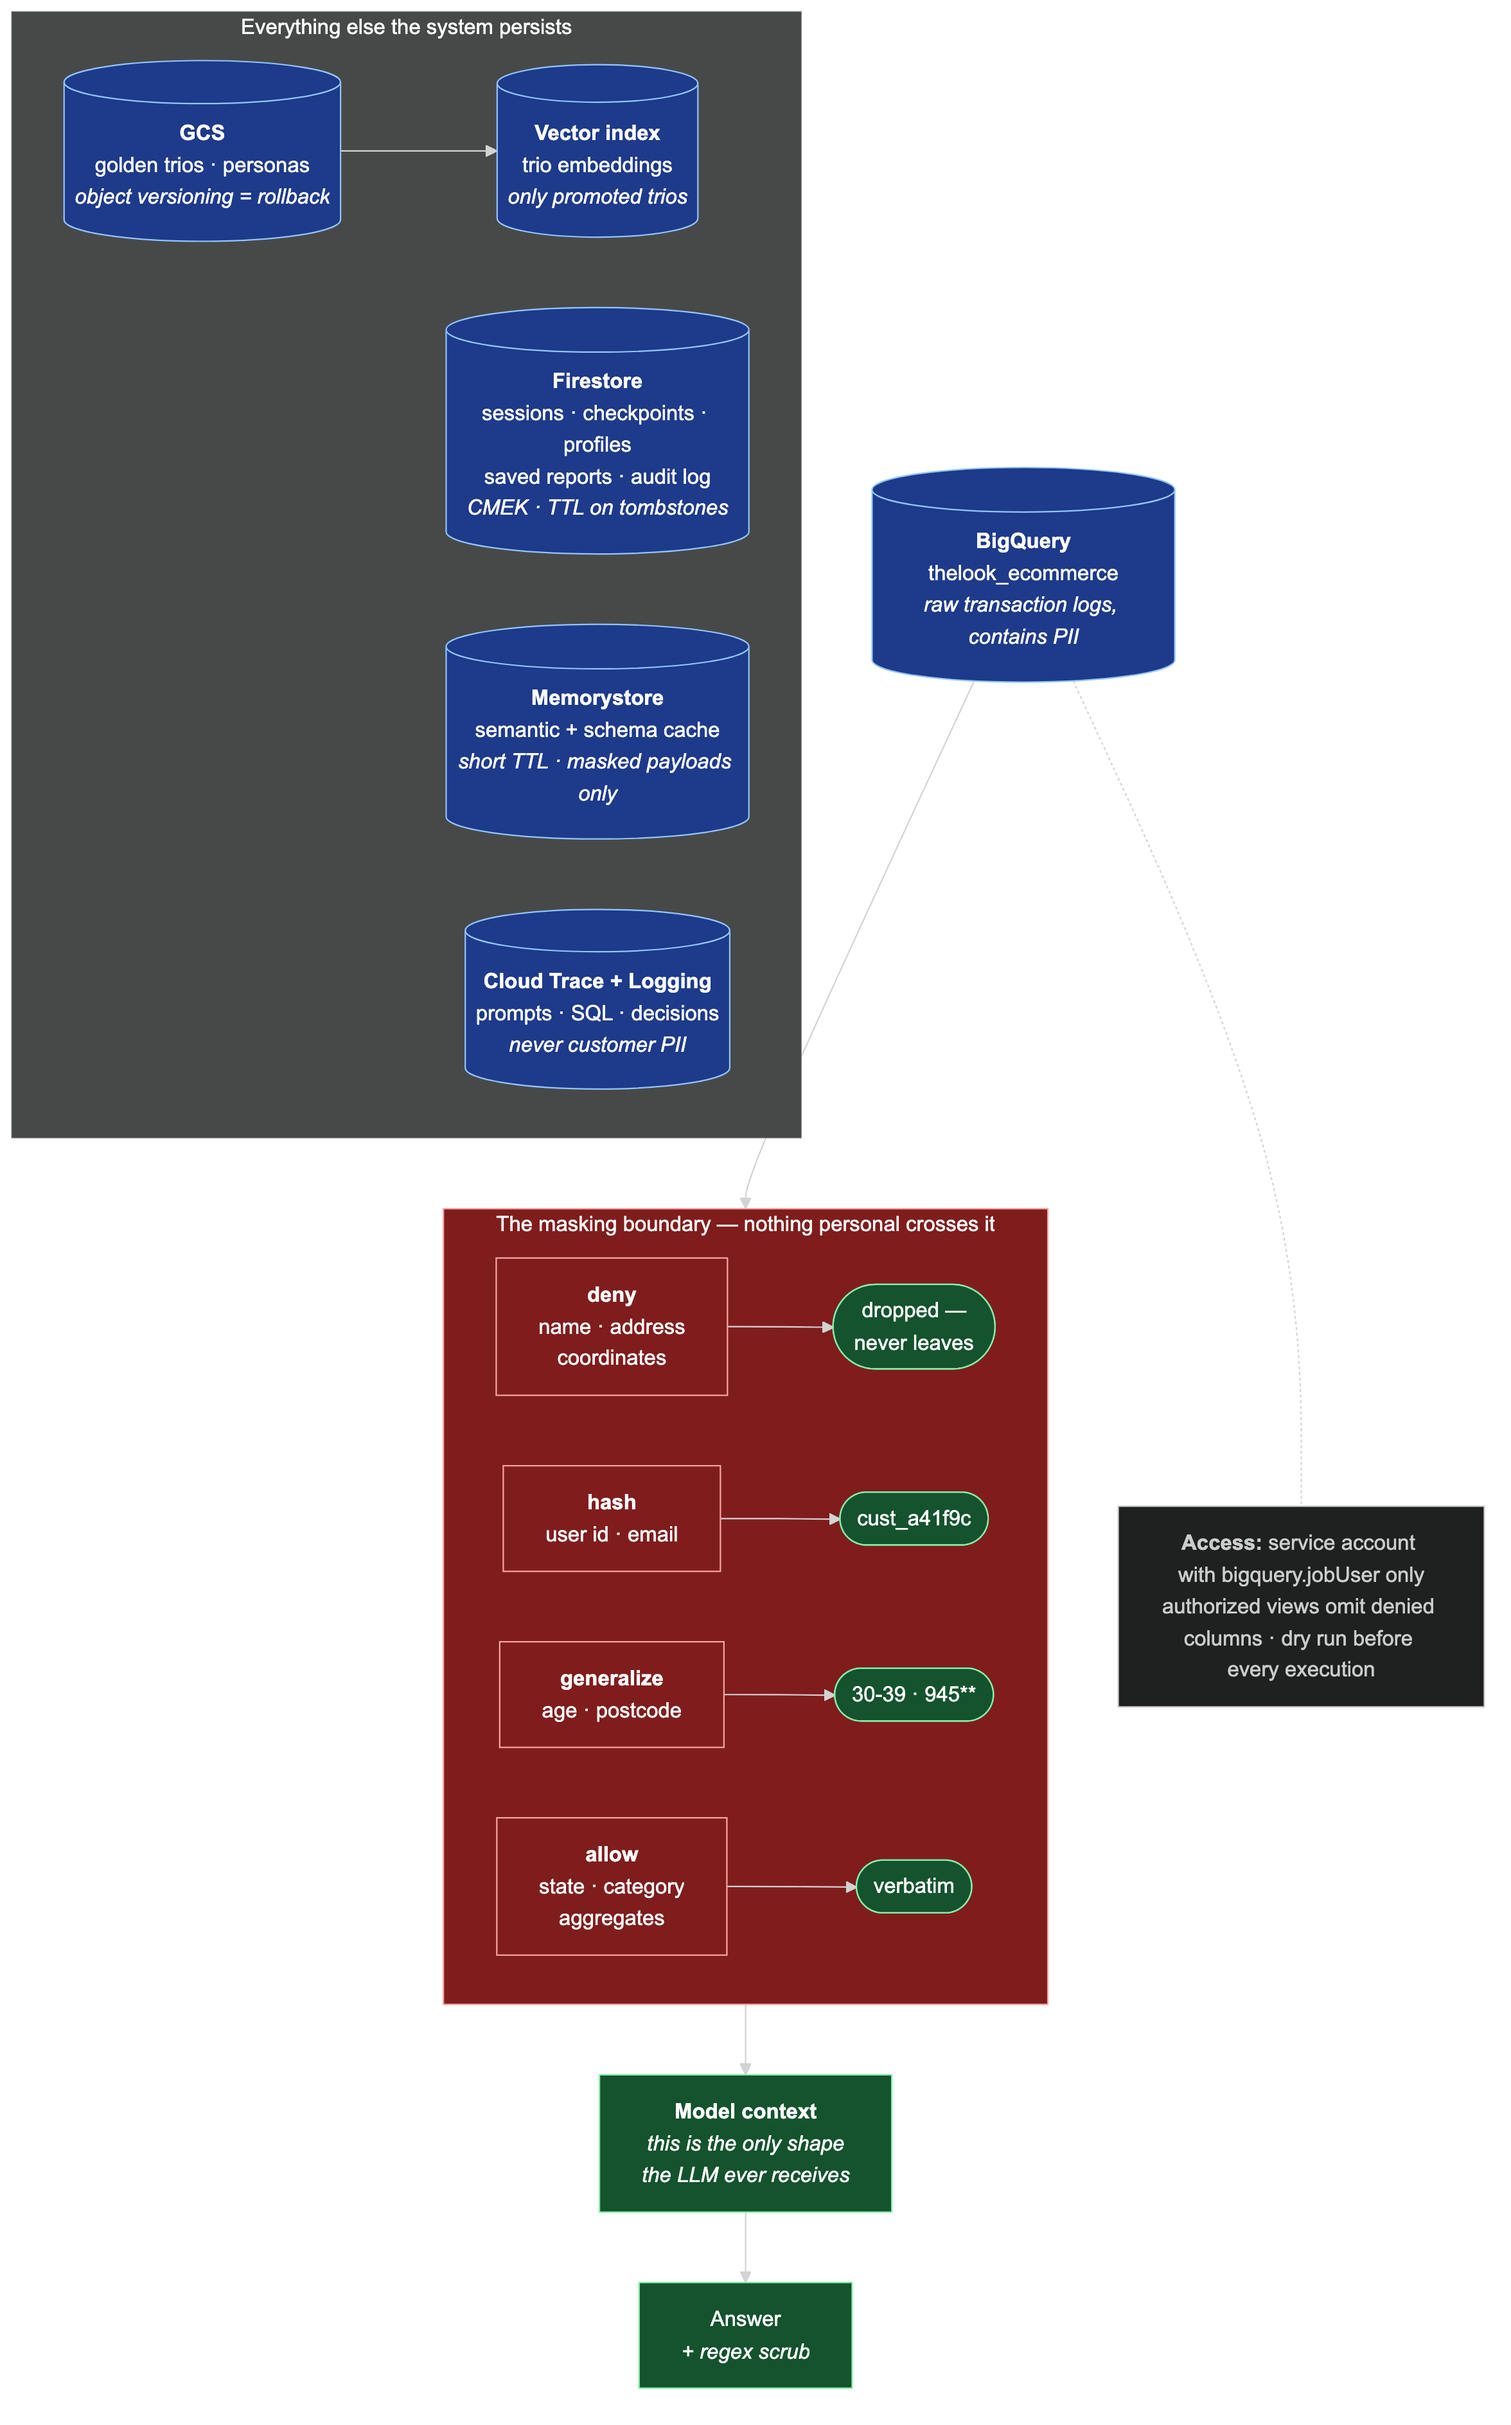
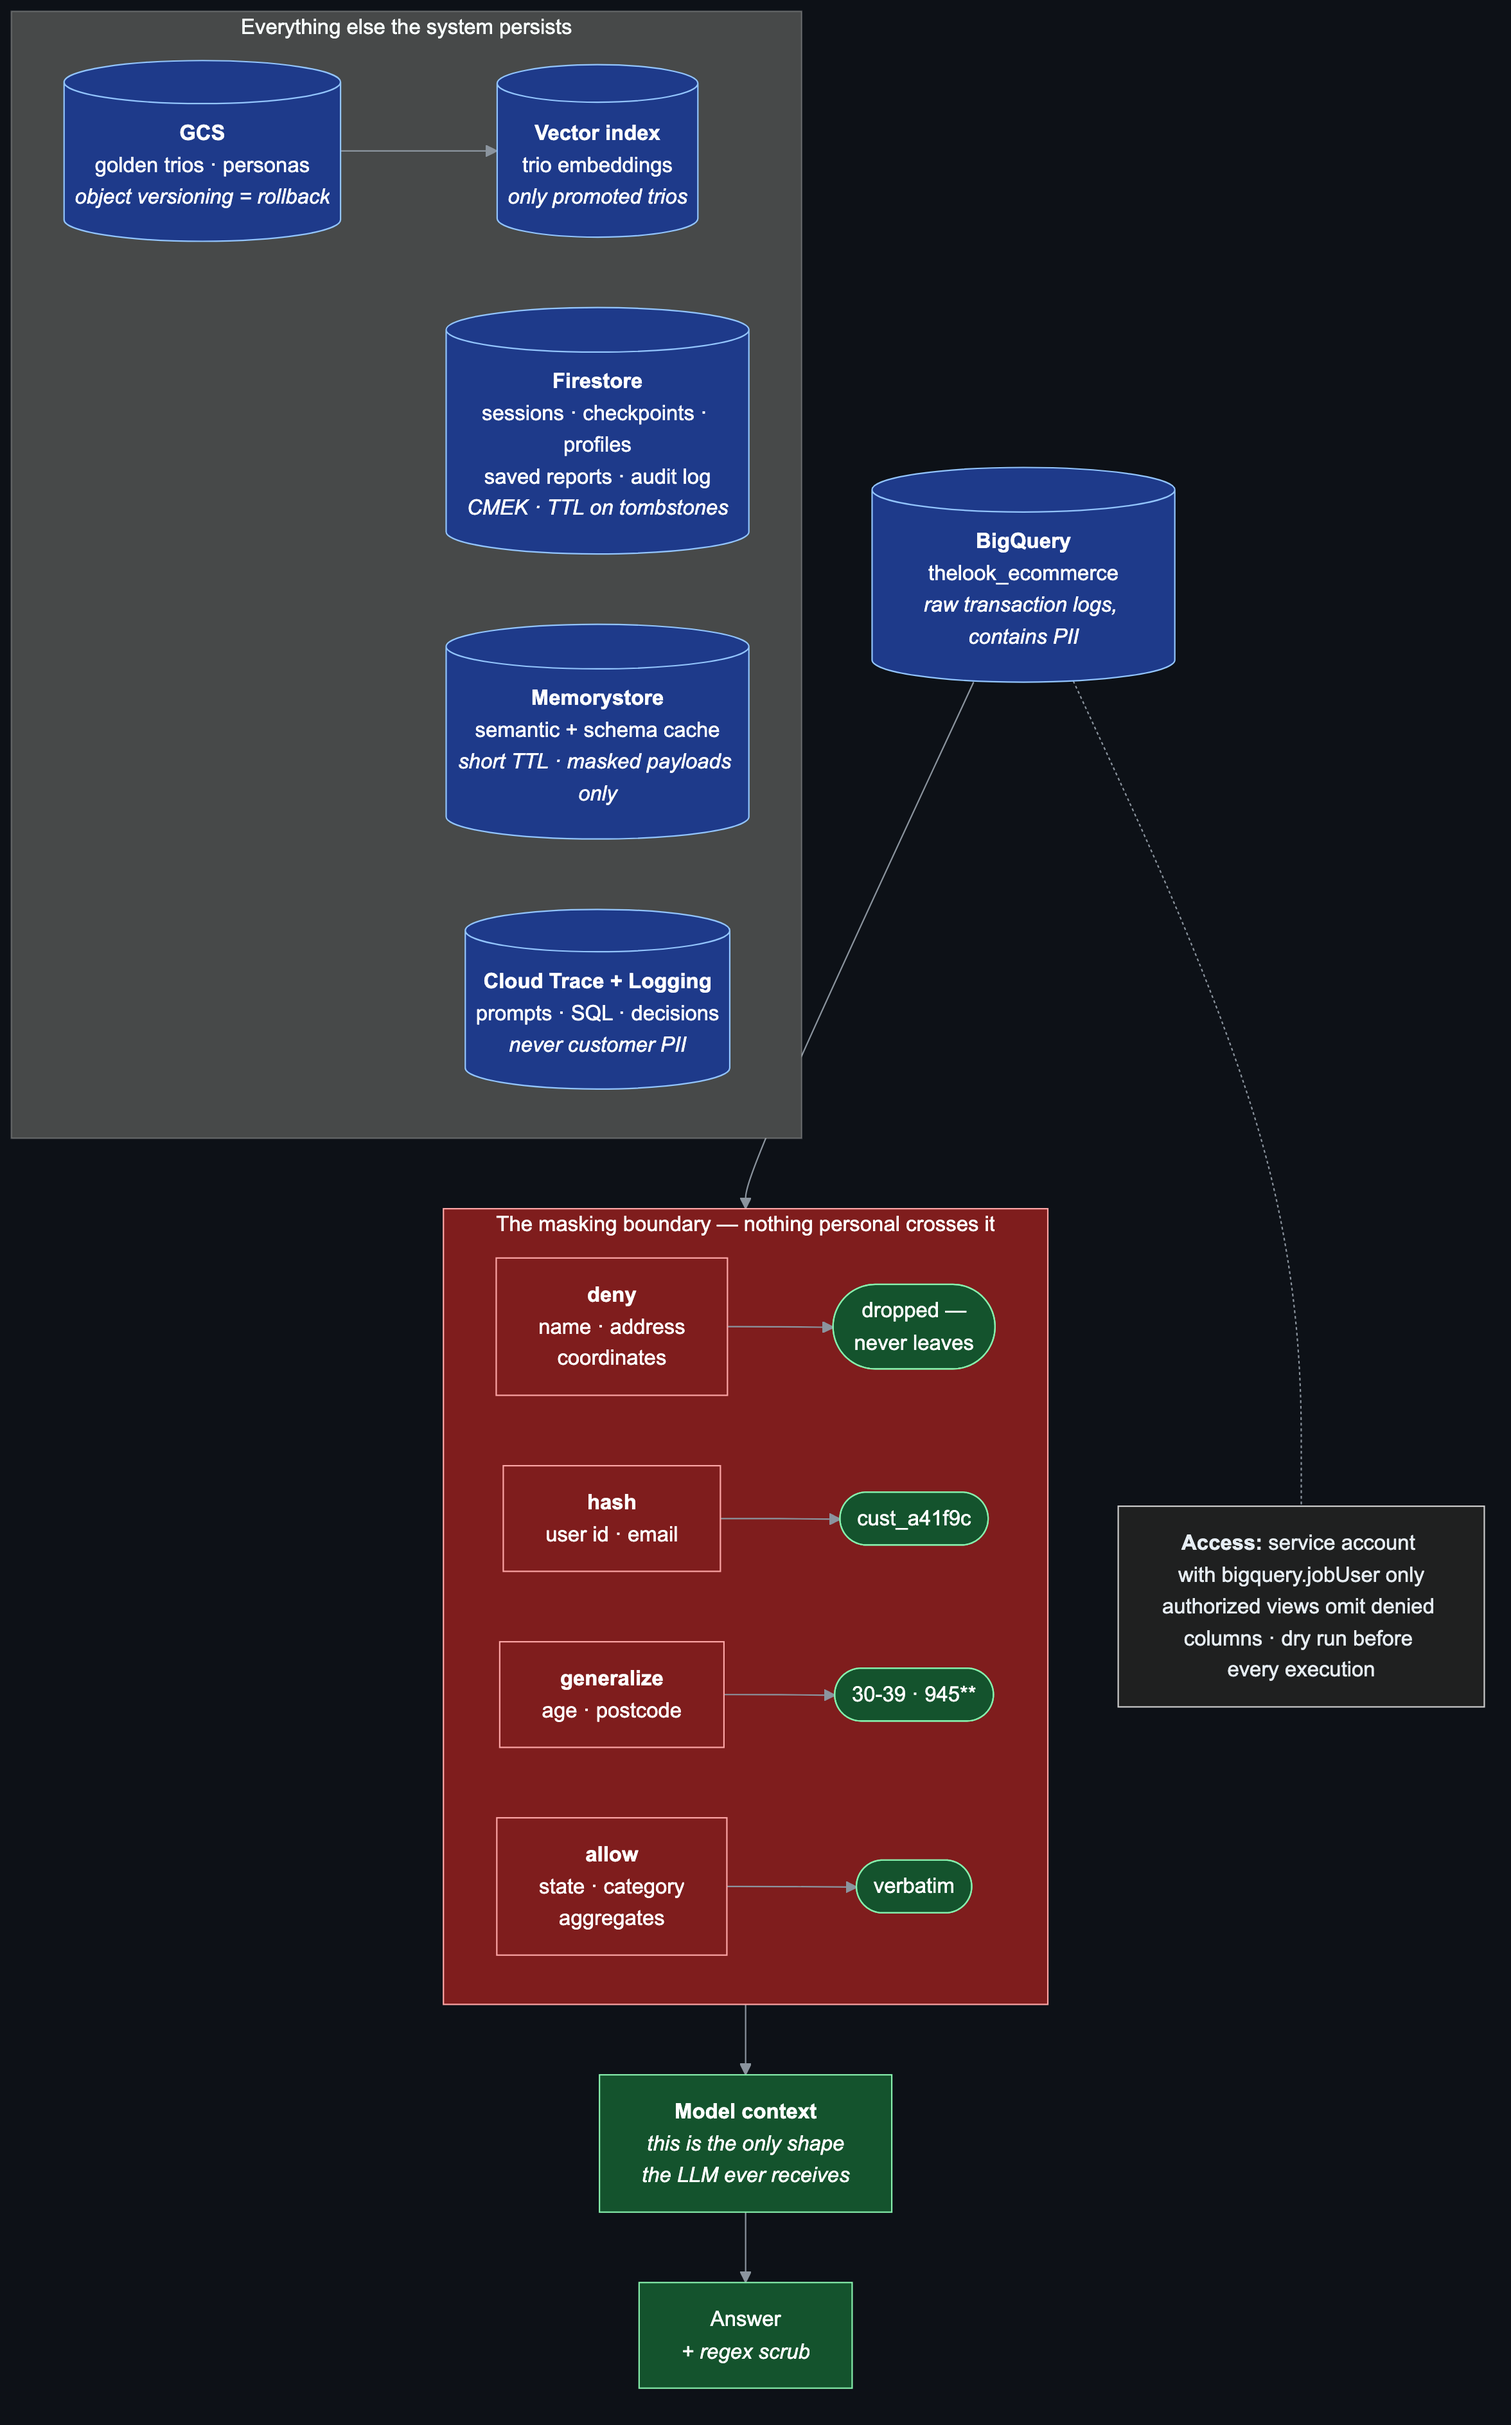
Fix three defects found by reviewing the rendered diagrams
Inspecting every rendered image, rather than only checking that the Mermaid
parsed, surfaced three problems:

- Sequence diagram was unreadable. It was rendered with the dark theme on a
  white background, so message labels were light grey on white and note text
  clipped its box. Now rendered on a dark ground with explicit sequence,
  note and label colours.
- "Compute and request path" had a large dead gap in the synchronous path and
  the scaling notes floated disconnected. Rebuilt as a vertical flow through
  the Cloud Run container, with the external dependencies grouped behind a
  "the turn is ~95% waiting on these" callout carrying per-turn call counts.
- The system diagram's model layer was already corrected in an earlier commit
  but is re-exported here so the committed image matches the source.

All six images re-exported at 3x on a dark ground. 18 diagrams parse, 163
tests pass.

diff --git a/docs/ARCHITECTURE.md b/docs/ARCHITECTURE.md
@@ -114,35 +114,33 @@ What actually runs, on what, and what happens when it scales. Everything on the 
 path is one Cloud Run container; the write-behind work is deliberately off it.
 
 ```mermaid
-flowchart LR
-    subgraph sync["Synchronous path — Cloud Run, autoscaled 1..N"]
+flowchart TB
+    U(["manager's browser / CLI"]) -->|"HTTPS + SSE<br/><i>tokens stream as they generate</i>"| FA
+
+    subgraph CR["Cloud Run — one container, autoscaled 1..N"]
         direction TB
-        REQ["HTTPS + SSE<br/><i>token streaming</i>"] --> FA["FastAPI gateway<br/><i>auth · quotas · rate limit</i>"]
-        FA --> LG["LangGraph orchestrator<br/><i>in-process, ~200 MB</i>"]
-        LG --> SK["Safety kernel<br/><i>pure CPU, no I/O</i>"]
-        LG --> IO["I/O fan-out<br/><i>models · warehouse · state</i>"]
+        FA["<b>FastAPI gateway</b><br/><i>auth · per-user quota · rate limit</i>"]
+        FA --> LG["<b>LangGraph orchestrator</b><br/><i>in-process, ~200 MB resident</i>"]
+        LG --> SK["<b>Safety kernel</b><br/><i>pure CPU, no I/O, sub-millisecond</i>"]
+        LG --> IO["<b>I/O fan-out</b><br/><i>models · warehouse · state</i>"]
     end
 
-    subgraph async["Write-behind — never blocks the answer"]
-        direction TB
-        PS["Pub/Sub"] --> CF["Cloud Functions<br/><i>trio indexing · config validation</i>"]
-        CT["Cloud Tasks"] --> LR["Long reports<br/><i>4+ queries, Pro model</i>"]
-        SCH["Cloud Scheduler"] --> NB["Nightly evals<br/>+ quality decay"]
-    end
+    IO --> EXT{{"the turn is ~95% waiting<br/>on these"}}
+    EXT --> M1["Vertex AI<br/><i>6-8 calls/turn</i>"]
+    EXT --> M2["BigQuery<br/><i>1-4 queries/turn</i>"]
+    EXT --> M3["Firestore<br/><i>history · checkpoints</i>"]
 
-    IO -.-> PS
-    FA --> CT
+    IO -.->|"fire and forget"| PS["Pub/Sub"] --> CFN["Cloud Functions<br/><i>trio indexing · config validation</i>"]
+    FA -.->|"if > 60 s of work"| CT["Cloud Tasks"] --> LRP["Long reports<br/><i>4+ queries, Pro model</i>"]
+    SCH["Cloud Scheduler"] --> NB["Nightly evals<br/>+ trio quality decay"]
 
-    subgraph scale["Scaling characteristics"]
-        direction TB
-        S1["bottleneck = model throughput,<br/>not CPU"]
-        S2["min instances 1 in business hours,<br/>0 overnight"]
-        S3["concurrency 8 per instance<br/><i>a turn is I/O-bound</i>"]
-        S4["p95 budget 25 s;<br/>hard cap 180 s per turn"]
-    end
+    SCALE["<b>Scaling</b> — bottleneck is model throughput, not CPU, so instances carry<br/>concurrency 8. Min 1 instance in business hours, 0 overnight.<br/>p95 budget 25 s · hard cap 180 s per turn."]
+    CR -.- SCALE
 
     classDef safety fill:#7f1d1d,stroke:#fca5a5,color:#fff
+    classDef note fill:#1f2937,stroke:#6b7280,color:#e5e7eb
     class SK safety
+    class SCALE,EXT note
 ```
 
 A turn is almost entirely waiting on the model, so instances carry high concurrency and the
